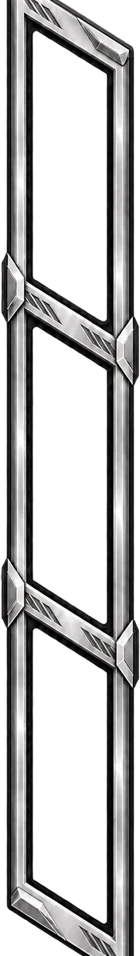
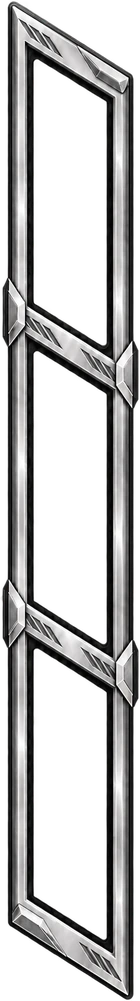
กรอบเกจพรใหม่ (ตี้ส่งรูป) + ช่องสีตามหน้าต่างใหม่ · เอาป้าย ใหม่ ออกจากการ์ด

Changed region(s): [[0.0, 0.0, 1.0, 1.0]]

diff --git a/index.html b/index.html
@@ -787,13 +787,13 @@ body.is-dragging,body.is-dragging *{cursor:grabbing!important}
 #world.lay-player .gauge.red{left:40px;right:auto;top:793px} #world.lay-player .gauge.blue{left:auto;right:40px;top:793px}
 #world.lay-spec .gauge.red{left:35px;right:auto;top:811px} #world.lay-spec .gauge.blue{left:auto;right:35px;top:811px}
 #world.vdo-fight .gauge{opacity:0}
-.gfr{position:relative;flex:none;width:35px;height:243px}
+.gfr{position:relative;flex:none;width:35px;height:250px}
 .gfr > img{position:absolute;inset:0;width:100%;height:100%;pointer-events:none}
-/* ตี้ 2026-10-28: ช่องเกจเต็มหน้าต่างของกรอบจริง ปลายบน/ล่างแหลมตามกรอบ — วัดจากภาพ gauge-frame.webp (140×956 → 35×243):
-   หน้าต่าง x 33–106 · y 32–320 / 327–622 / 629–922 · ขอบเฉียง 17% ของความสูงช่อง (BLUE ปลายแหลมขวาบน/ซ้ายล่าง · RED กลับด้าน) */
-.gcell,.gg{position:absolute;left:8.5px;width:18.3px;background:rgba(8,10,16,.78);clip-path:polygon(0 0,100% 17%,100% 100%,0 83%)}
-.gauge.blue .gcell,.gauge.blue .gg{left:8.2px;clip-path:polygon(100% 0,0 17%,0 100%,100% 83%)}
-.gcell.k0,.gg.k0{top:159.9px;height:74.6px} .gcell.k1,.gg.k1{top:83.1px;height:75px} .gcell.k2,.gg.k2{top:8.1px;height:73.3px}
+/* ตี้ 2026-10-28: ช่องเกจเต็มหน้าต่างของกรอบจริง ปลายบน/ล่างแหลมตามกรอบ — กรอบใหม่ (ตี้ส่งรูปใหม่ แทนอันเก่าที่ปลายดูขาด) 140×1001 → 35×250:
+   หน้าต่าง x 34–105 · y 60–344 / 352–643 / 649–938 · ขอบเฉียง 14.5% ของความสูงช่อง (BLUE ปลายแหลมขวาบน/ซ้ายล่าง · RED กลับด้าน) */
+.gcell,.gg{position:absolute;left:8.5px;width:18px;background:rgba(8,10,16,.78);clip-path:polygon(0 0,100% 14.5%,100% 100%,0 85.5%)}
+.gauge.blue .gcell,.gauge.blue .gg{left:8.5px;clip-path:polygon(100% 0,0 14.5%,0 100%,100% 85.5%)}
+.gcell.k0,.gg.k0{top:162.25px;height:72.5px} .gcell.k1,.gg.k1{top:88px;height:73px} .gcell.k2,.gg.k2{top:15px;height:71.25px}
 /* เรืองรุ้งตามขั้น: เงาเรืองเฉพาะช่องที่เติมแล้ว (สำเนาช่องอยู่ใต้กรอบ ให้แสงฟุ้งออกนอกกรอบ) · เต็ม 3 = กรอบทั้งอันเรืองด้วย */
 .gglow{position:absolute;inset:0;pointer-events:none;animation:gFrGlow 2s linear infinite}
 .gg{background:#fff}
@@ -4175,7 +4175,7 @@ function logClash(r) {
 }
 
 /* ───────── วาดหน้าจอ ───────── */
-// การ์ด = ภาพการ์ดจริง + ป้ายเลเวล (ทองเมื่อ Lv2 ขึ้นไป) + ชื่อ
+// การ์ด = ภาพการ์ดจริง + ป้ายเลเวล (ทองเมื่อ Lv2 ขึ้นไป) + ชื่อ · ป้าย "เก็บ"/"คืน" (ตี้ 2026-10-28 เอาป้าย "ใหม่" ออก)
 function cardHTML(c, o = {}) {
   const el = o.act ? 'button' : 'div';
   const attrs = o.act
@@ -4183,7 +4183,7 @@ function cardHTML(c, o = {}) {
     : ` role="img" aria-label="${INFO[c.type].name} Lv${c.lv}"`;
   const cls = ['card', `k-${c.type}`, c.lv > 1 && `lv${c.lv}`, o.sel && 'sel', o.act && 'clickable', o.cls].filter(Boolean).join(' ');
   const extra = `${o.cid != null ? ` data-cid="${o.cid}"` : ''}${o.style ? ` style="${o.style}"` : ''}`;
-  return `<${el} class="${cls}"${attrs}${extra}><img class="c-art" src="${ART[c.type]}" alt="" draggable="false"><span class="c-lv"><small>LV</small>${c.lv}</span><span class="c-name">${INFO[c.type].name}</span>${o.picked ? '<span class="c-new c-pick">เก็บ</span>' : o.back ? '<span class="c-new c-back">คืน</span>' : o.fresh ? '<span class="c-new">ใหม่</span>' : ''}</${el}>`;
+  return `<${el} class="${cls}"${attrs}${extra}><img class="c-art" src="${ART[c.type]}" alt="" draggable="false"><span class="c-lv"><small>LV</small>${c.lv}</span><span class="c-name">${INFO[c.type].name}</span>${o.picked ? '<span class="c-new c-pick">เก็บ</span>' : o.back ? '<span class="c-new c-back">คืน</span>' : ''}</${el}>`;
 }
 const backHTML = (cls = '', style = '') => `<div class="card back ${cls}"${style ? ` style="${style}"` : ''}><img class="back-logo" src="assets/logo-df.webp" alt="" draggable="false"></div>`;
 // ผู้ชมเห็นการ์ดที่วางแล้วเป็น ? (ตี้ 2026-10-27: ให้ลุ้นว่าผู้เล่นจะใช้การ์ดอะไร)
@@ -4405,7 +4405,7 @@ function renderGauge(s) {
   el.className = `gauge ${s.toLowerCase()}${usable ? ' usable' : ''}${unl ? ' unl' : ''}${n ? ' has' : ''}${n >= GAUGE_MAX ? ' full' : ''}`;
   $('#world').classList.toggle(`unl-${s.toLowerCase()}`, unlimitedNow(g, s) && ui.phase === 'action'); // พลังเต็ม: การ์ดบนมือ + ช่องวางเรืองรุ้ง
   // เกจพร (ตี้ 2026-10-27): กรอบเงิน 3 ช่อง เติมสีรุ้งทีละขั้นจากล่างขึ้นบน (RED ใช้กรอบกลับด้าน)
-  const orbs = `<span class="gfr" role="img" aria-label="เกจ ${s} ${n}/${GAUGE_MAX}"><span class="gglow">${[0, 1, 2].filter(k => k < n).map(k => `<i class="gg k${k}"></i>`).join('')}</span><img src="assets/gauge-frame${s === 'RED' ? '-l' : ''}.webp" alt="" draggable="false">${[0, 1, 2].map(k => `<i class="gcell k${k}${k < n ? ' on' : ''}${k < n && k >= prev ? ' new' : ''}${k >= n && k < prev ? ' spent' : ''}"></i>`).join('')}</span>`;
+  const orbs = `<span class="gfr" role="img" aria-label="เกจ ${s} ${n}/${GAUGE_MAX}"><span class="gglow">${[0, 1, 2].filter(k => k < n).map(k => `<i class="gg k${k}"></i>`).join('')}</span><img src="assets/gauge-frame${s === 'RED' ? '-l' : ''}.webp?v=2" alt="" draggable="false">${[0, 1, 2].map(k => `<i class="gcell k${k}${k < n ? ' on' : ''}${k < n && k >= prev ? ' new' : ''}${k >= n && k < prev ? ' spent' : ''}"></i>`).join('')}</span>`;
   const label = `<span class="glabel">เกจ ${n}/${GAUGE_MAX}</span>`;
   const meta = `<span class="gmeta"><span title="การ์ดตั้งรับที่วาง รวมเลเวลครบ ${GAUGE_STACK} = 1 เกจ">${icon('DEF')}${P.gStack}/${GAUGE_STACK}</span><span title="ดาเมจจากการ์ดจู่โจม ครบ ${GAUGE_DMG} = 1 เกจ">${icon('ATK')}${P.gDmg}/${GAUGE_DMG}</span></span>`;
   el.firstElementChild.innerHTML = usable
